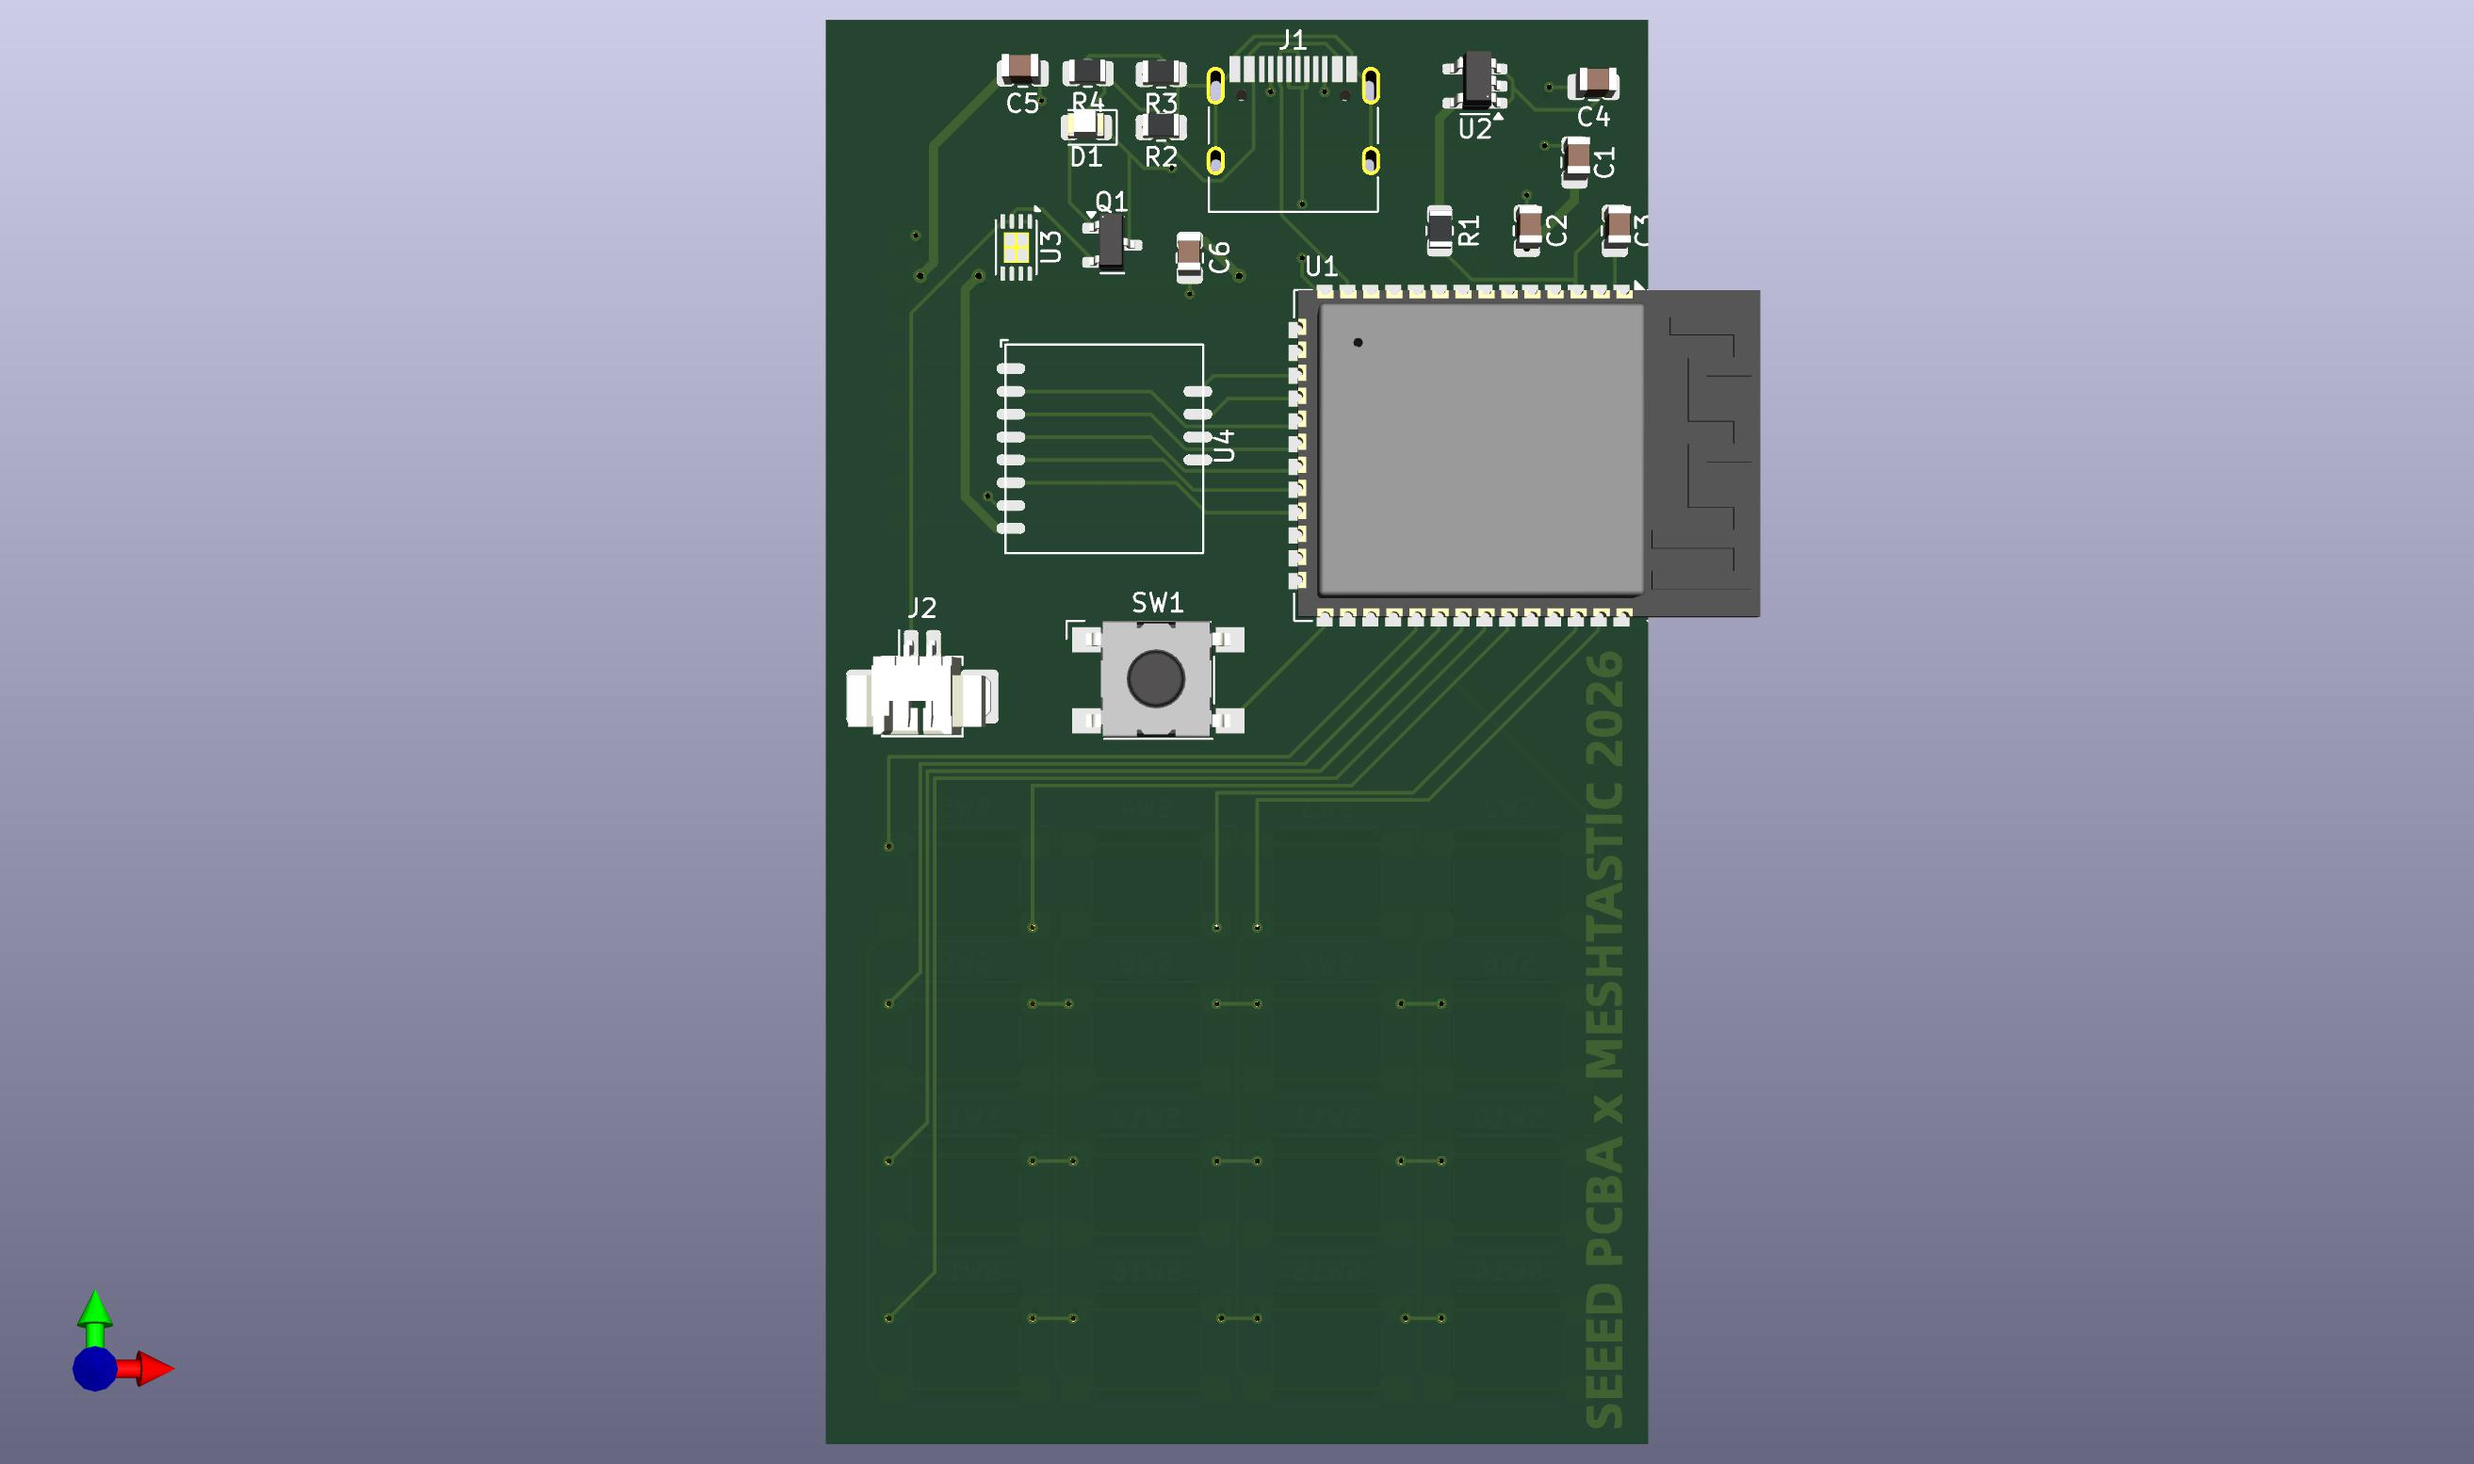
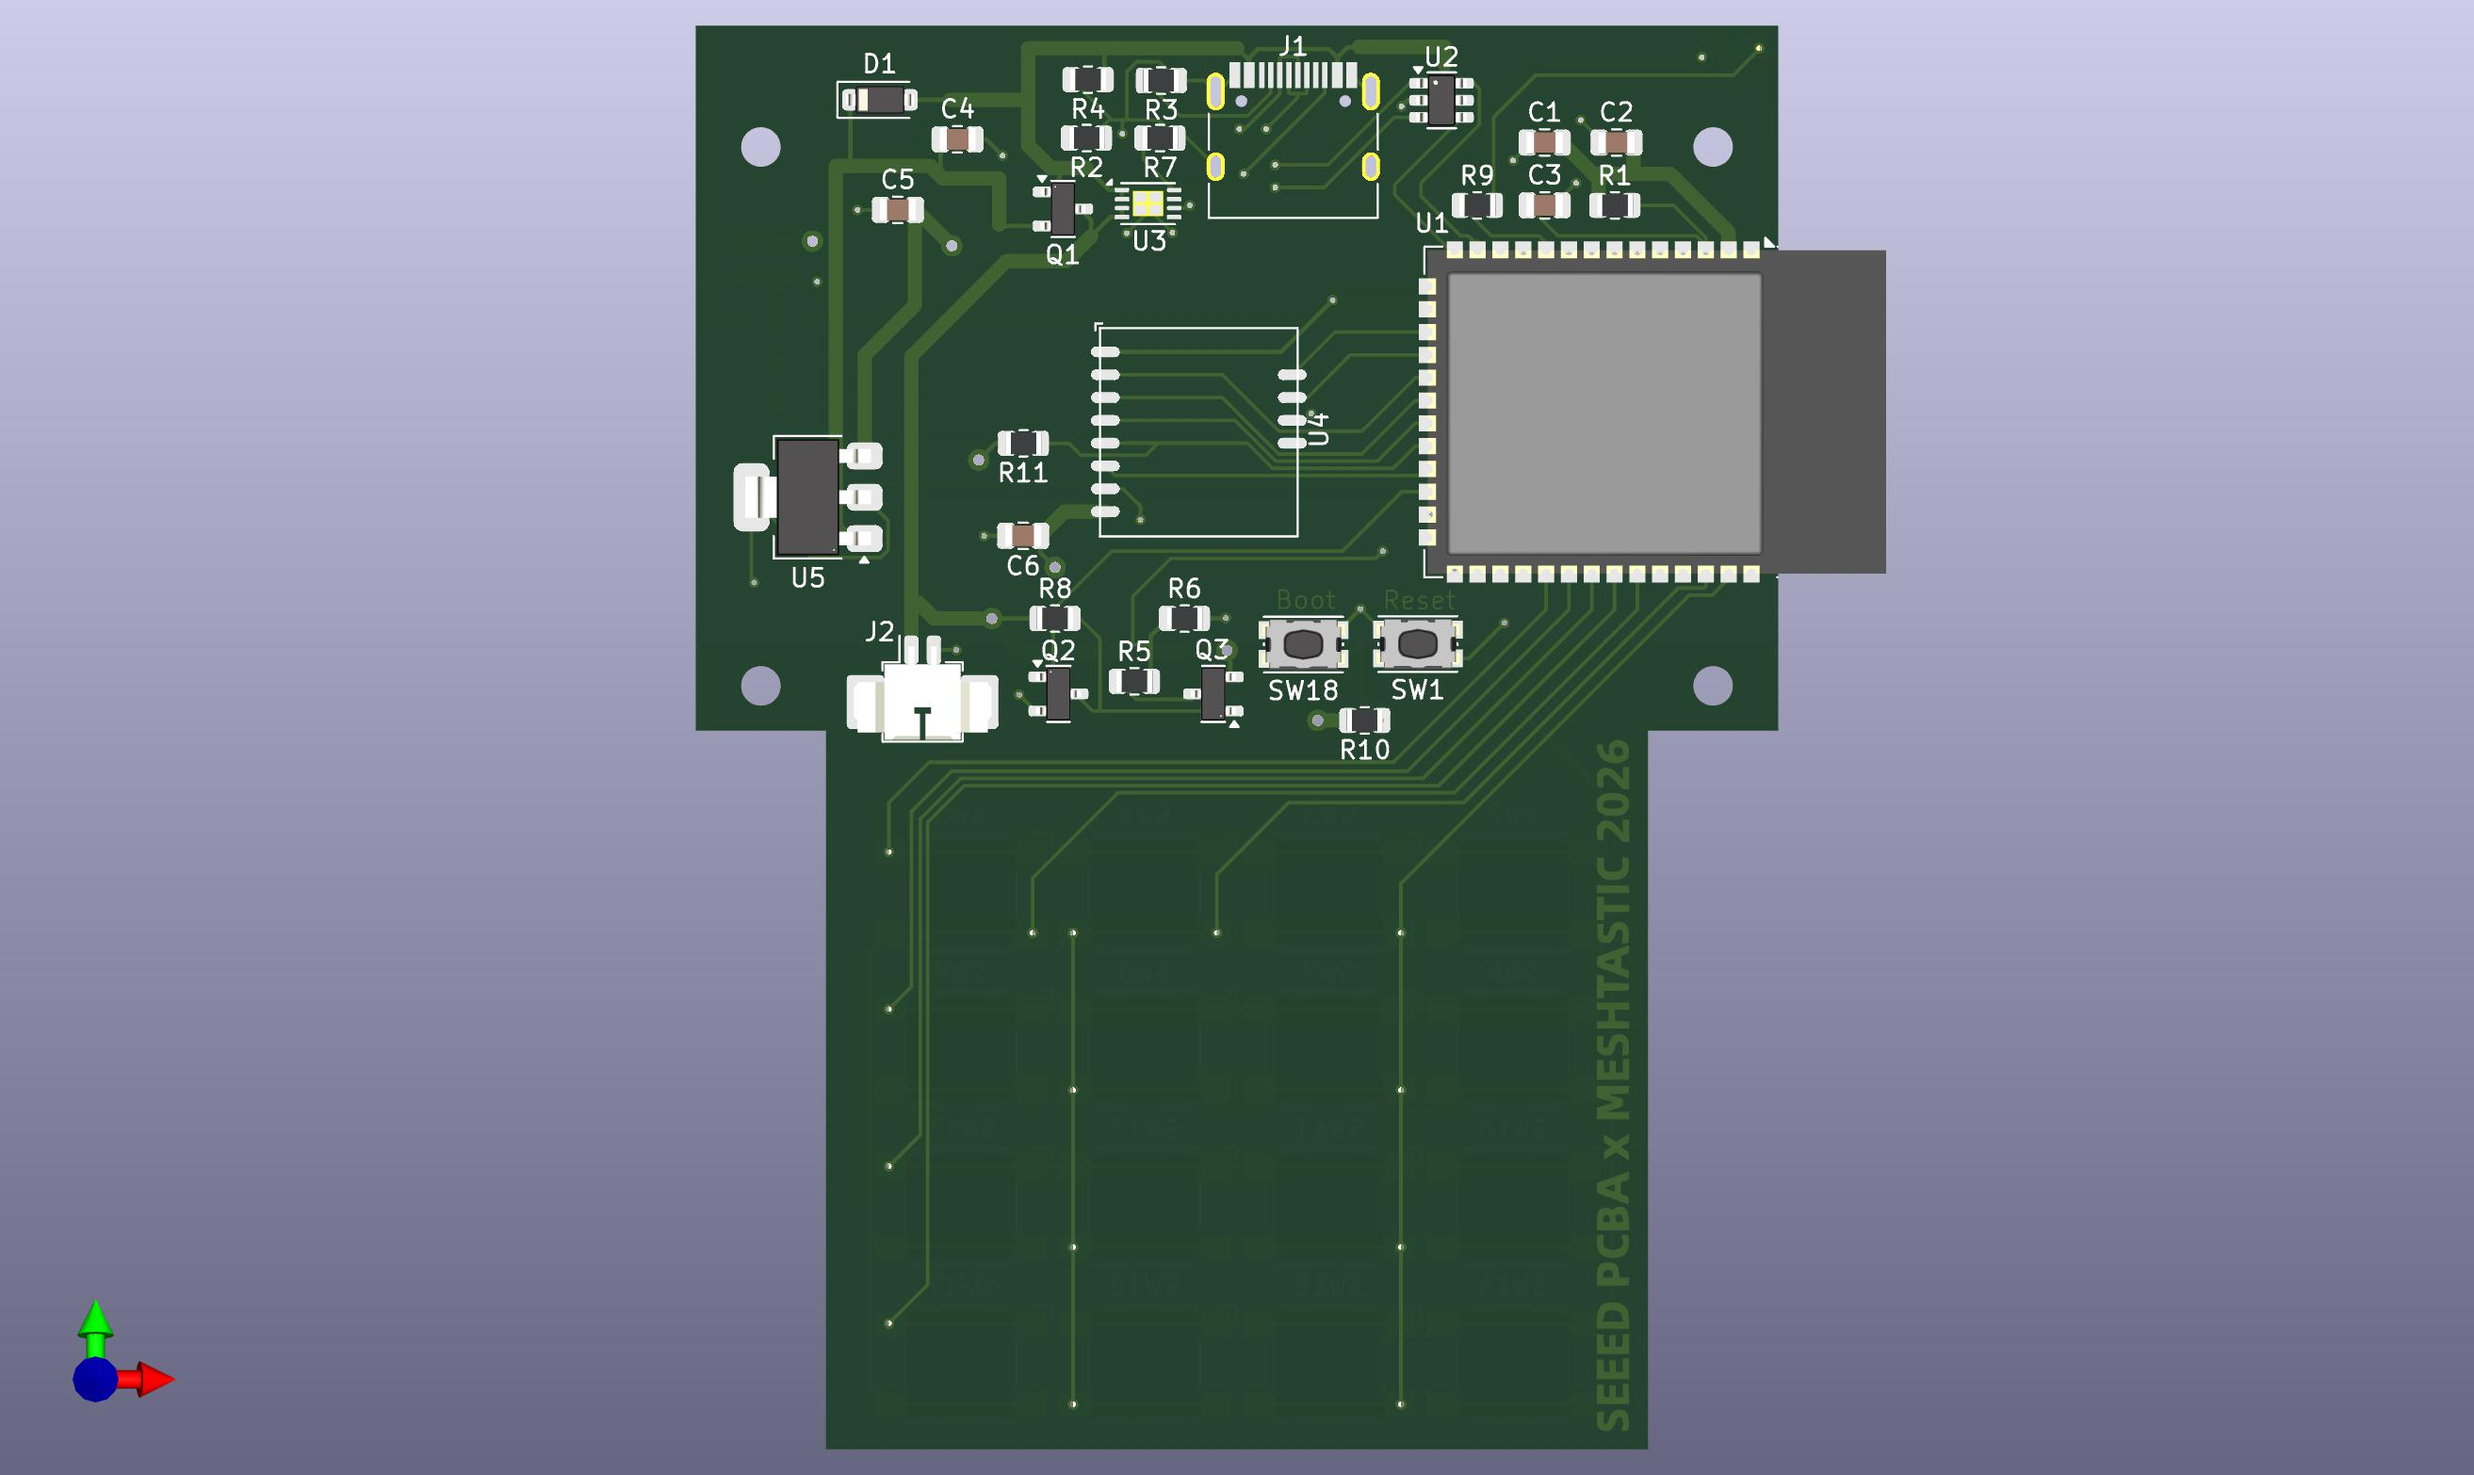
Images in readme

Changed region(s): [[0.281, 0.0, 0.7807, 0.9884], [0.0312, 0.8958, 0.0625, 0.9266]]

diff --git a/meshtastic-build-off-2026/README.md b/meshtastic-build-off-2026/README.md
@@ -4,6 +4,16 @@
 
 This directory contains the custom hardware design for the **MESHTASTIC Build-Off 2026** competition entry. The goal is to create a custom PCB-based Meshtastic device with integrated display and keypad interface.
 
+## PCB Renders
+
+### Front
+
+![PCB Front Render](Hardware/Front.jpg)
+
+### Back
+
+![PCB Back Render](Hardware/Back.jpg)
+
 ## Competition Entry
 
 - **Event:** MESHTASTIC Build-Off 2026
